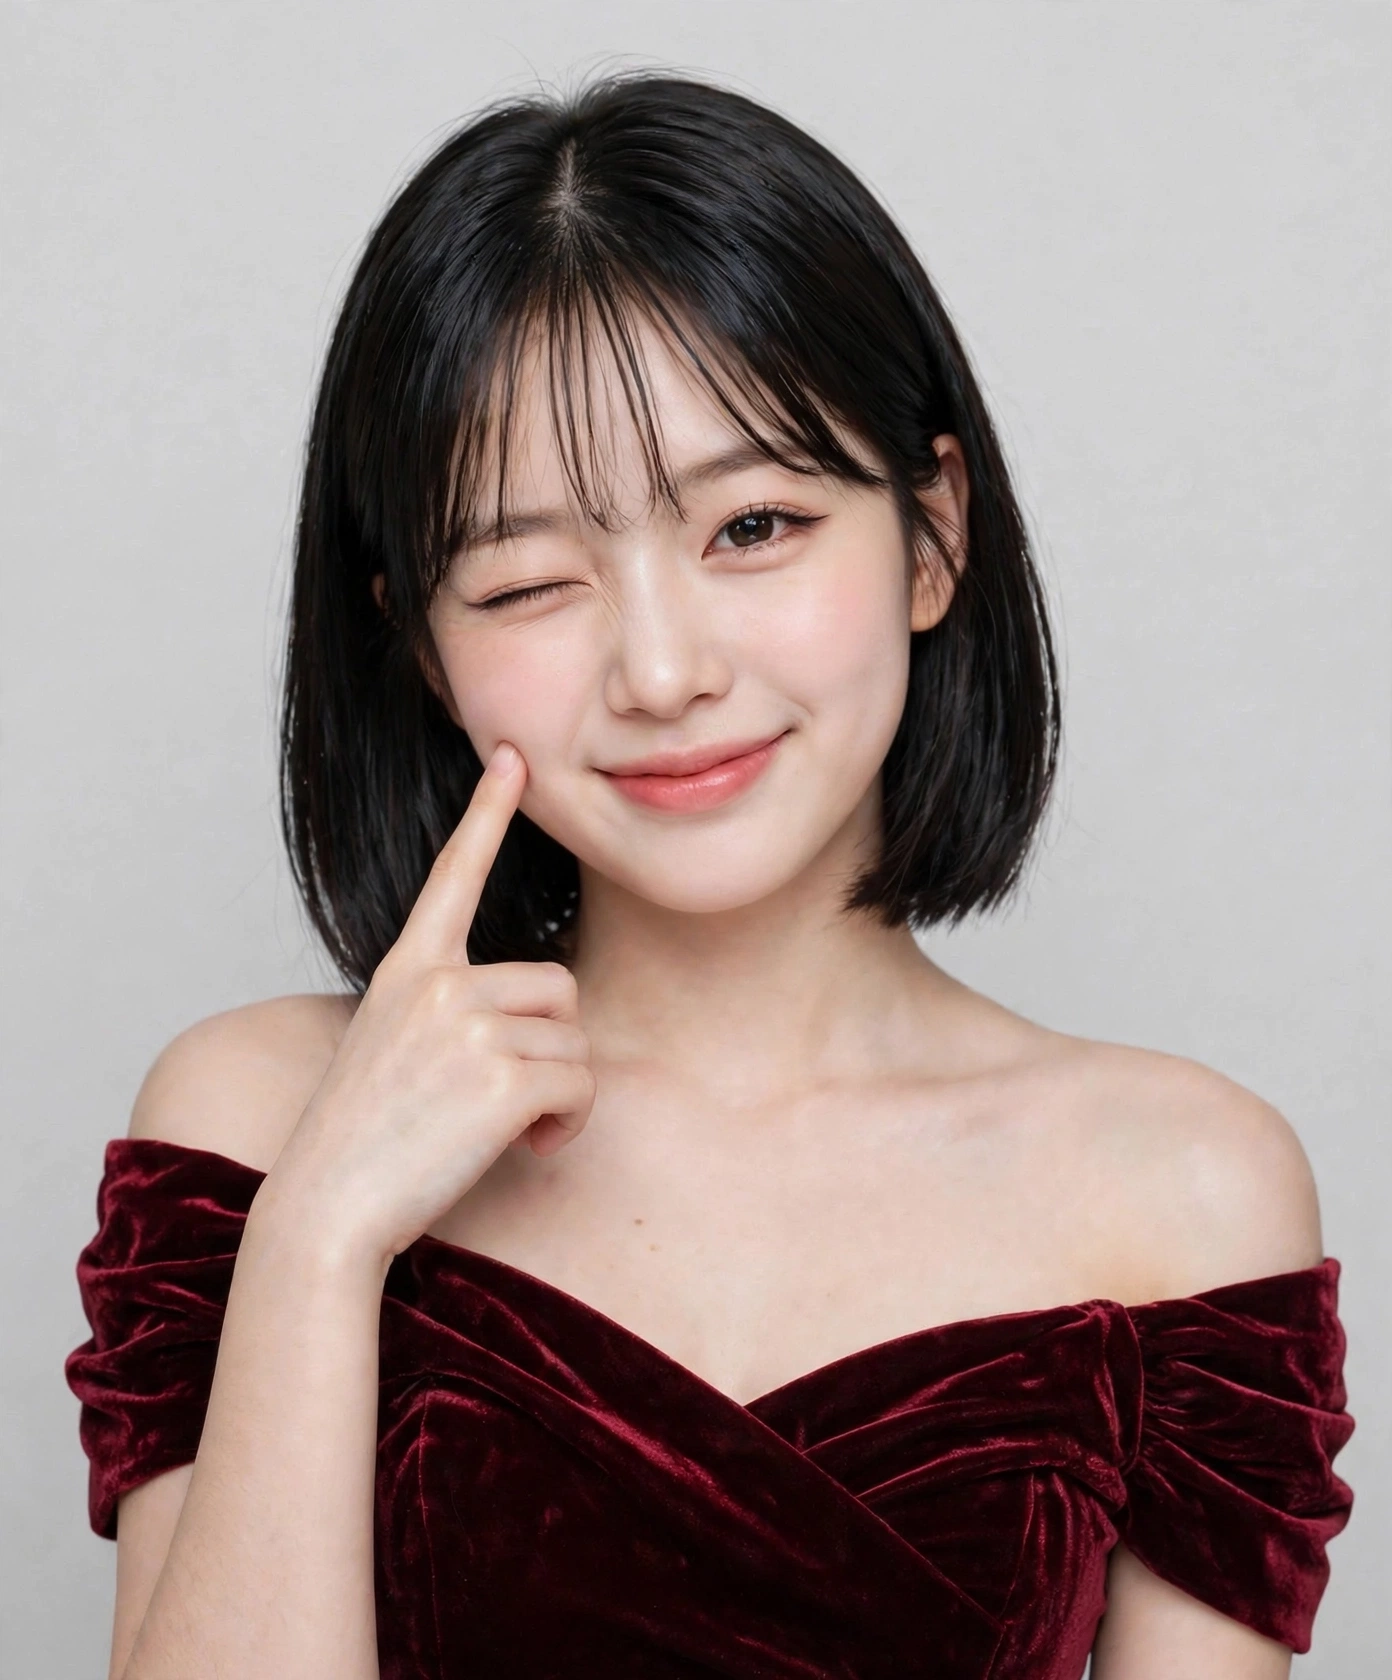
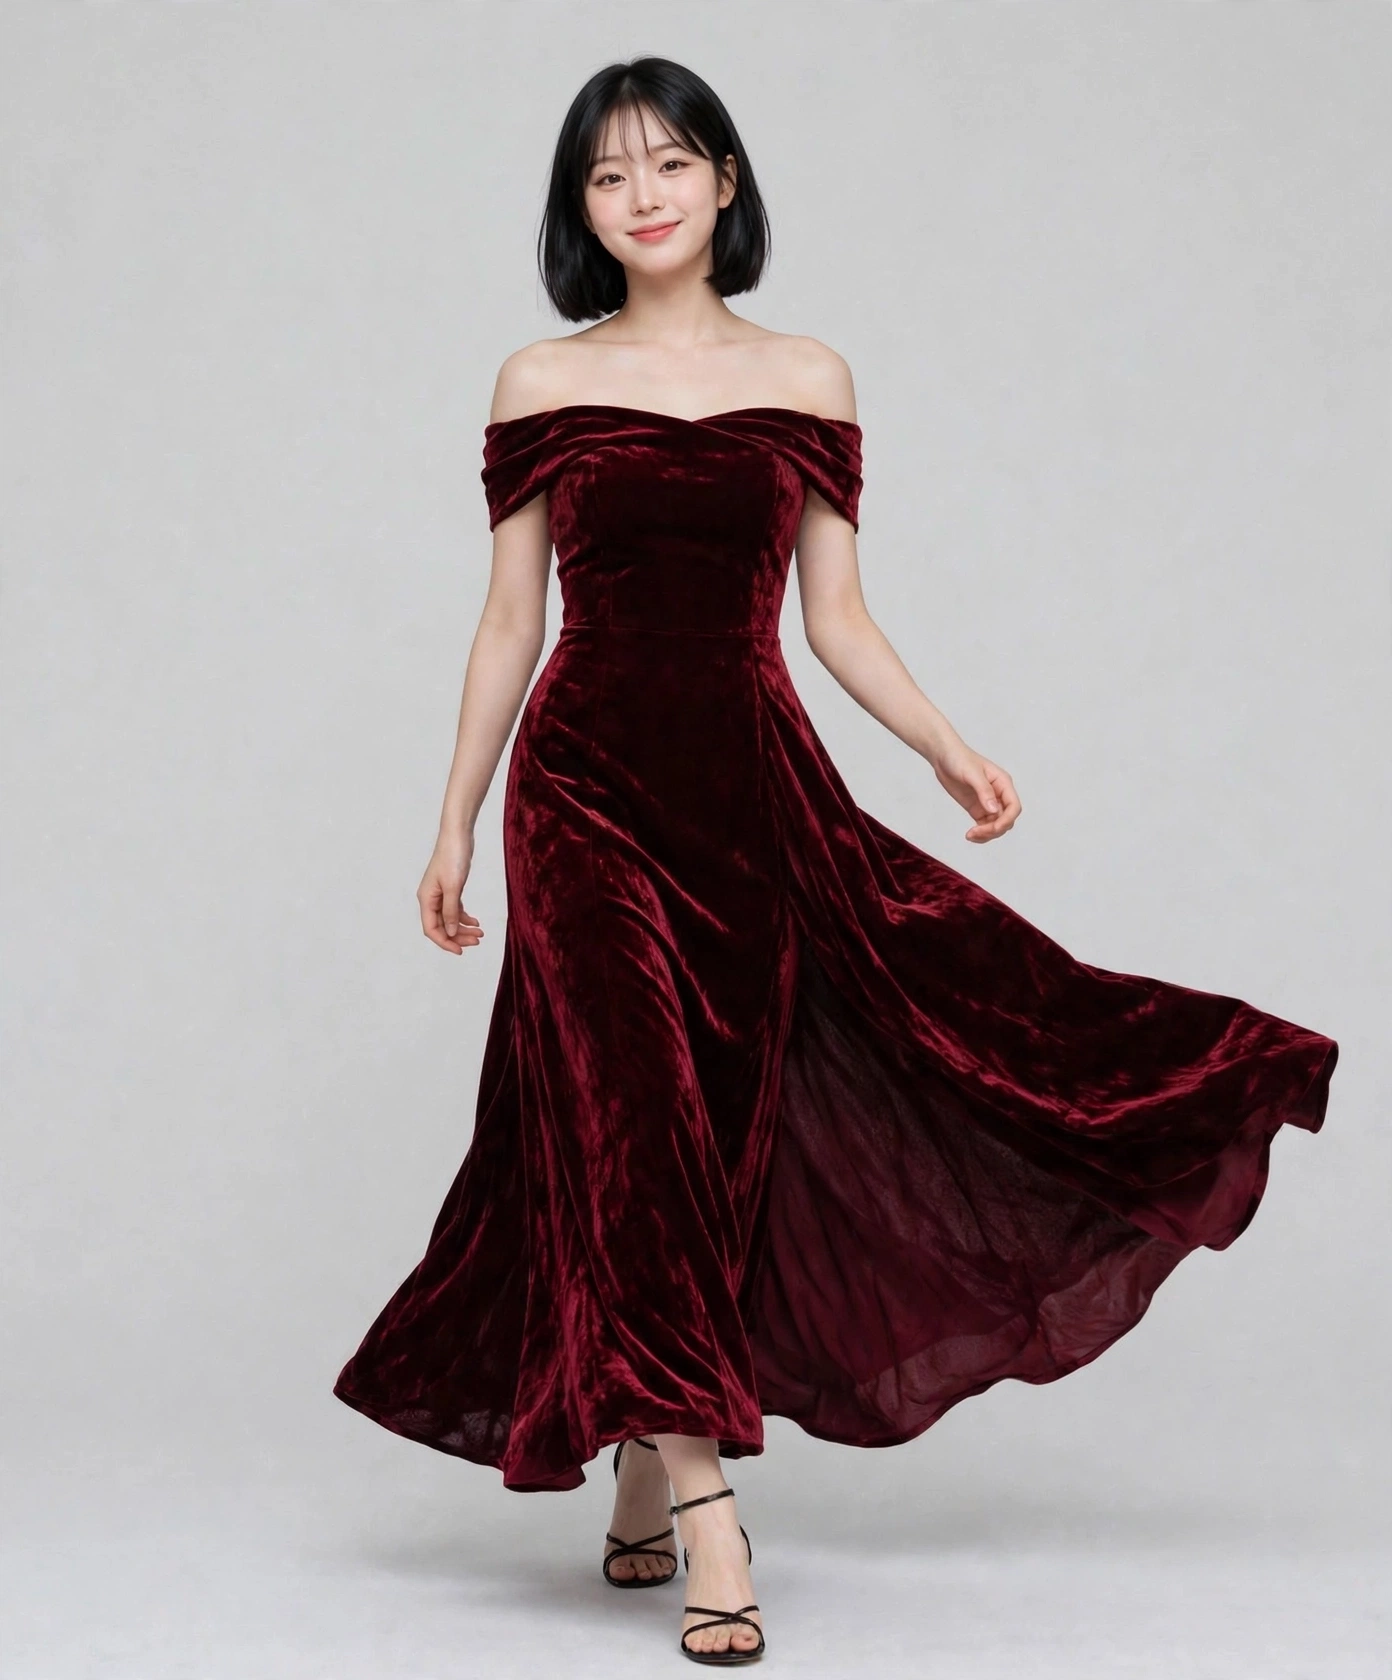
Sena: redo big-laugh cuts, delete cheek-poke cut, renumber studio2 (Sena 32, v74)

diff --git a/index.html b/index.html
@@ -42,7 +42,7 @@
 <body>
 <header>
   <h1 id="album-title">Mia's Album</h1>
-  <p id="album-sub">확정 얼굴 기준의 컷 모음 (총 165컷) · 버전 73</p>
+  <p id="album-sub">확정 얼굴 기준의 컷 모음 (총 165컷) · 버전 74</p>
   <div class="char-switch" role="tablist" aria-label="캐릭터 선택">
     <button type="button" class="char-btn active" id="btn-mia">Mia</button>
     <button type="button" class="char-btn" id="btn-ciel">Ciel</button>
@@ -392,7 +392,7 @@
     <div class="card" data-cap="Sena 스튜디오 1 — 검정 페플럼, 워킹 미소"><img src="img/sena-1.webp" alt="Sena 스튜디오 1"><div class="cap">검정 페플럼 · 워킹</div></div>
     <div class="card" data-cap="Sena 스튜디오 2 — 레드 페플럼, 높은 의자 미소"><img src="img/sena-2.webp" alt="Sena 스튜디오 2"><div class="cap">레드 페플럼 · 미소</div></div>
     <div class="card" data-cap="Sena 스튜디오 3 — 와인 바디콘, 한 손 허리 시크"><img src="img/sena-3.webp" alt="Sena 스튜디오 3"><div class="cap">와인 바디콘 · 시크</div></div>
-    <div class="card" data-cap="Sena 스튜디오 4 — 크림 니트, 크게 웃음"><img src="img/sena-4.webp" alt="Sena 스튜디오 4"><div class="cap">크림 니트 · 웃음</div></div>
+    <div class="card" data-cap="Sena 스튜디오 4 — 크림 니트, 고개 기울여 잔잔한 미소"><img src="img/sena-4.webp" alt="Sena 스튜디오 4"><div class="cap">크림 니트 · 잔잔한 미소</div></div>
   </div>
 </section>
 
@@ -420,7 +420,7 @@
   <h2>스튜디오 2차</h2>
   <div class="grid">
     <div class="card" data-cap="Sena 스튜디오2 1 — 실버 새틴 롱드레스, 앉아 턱 든 도도"><img src="img/sena-studio2-1.webp" alt="Sena 스튜디오2 1"><div class="cap">실버 새틴 · 도도</div></div>
-    <div class="card" data-cap="Sena 스튜디오2 2 — 네이비 페플럼, 워킹 큰 웃음"><img src="img/sena-studio2-2.webp" alt="Sena 스튜디오2 2"><div class="cap">네이비 페플럼 · 큰 웃음</div></div>
+    <div class="card" data-cap="Sena 스튜디오2 2 — 네이비 페플럼, 워킹 잔잔한 미소"><img src="img/sena-studio2-2.webp" alt="Sena 스튜디오2 2"><div class="cap">네이비 페플럼 · 워킹 미소</div></div>
     <div class="card" data-cap="Sena 스튜디오2 3 — 버건디 오프숄더 롱, 돌아봄 미소"><img src="img/sena-studio2-3.webp" alt="Sena 스튜디오2 3"><div class="cap">버건디 오프숄더 · 돌아봄</div></div>
     <div class="card" data-cap="Sena 스튜디오2 4 — 화이트 민소매 여름 원피스, 하이앵글 놀람"><img src="img/sena-studio2-4.webp" alt="Sena 스튜디오2 4"><div class="cap">화이트 · 하이앵글 놀람</div></div>
     <div class="card" data-cap="Sena 스튜디오2 5 — 하늘 랩 원피스, 치마 잡고 윙크"><img src="img/sena-studio2-5.webp" alt="Sena 스튜디오2 5"><div class="cap">하늘 랩 · 윙크</div></div>
@@ -430,8 +430,7 @@
     <div class="card" data-cap="Sena 스튜디오2 9 — 라벤더 새틴 랩, 의자에 앉아 다리 꼬고"><img src="img/sena-studio2-9.webp" alt="Sena 스튜디오2 9"><div class="cap">라벤더 새틴 · 앉은 자세</div></div>
     <div class="card" data-cap="Sena 스튜디오2 10 — 버건디 오프숄더 벨벳 롱, 한 손 허리 정면"><img src="img/sena-studio2-10.webp" alt="Sena 스튜디오2 10"><div class="cap">버건디 벨벳 · 정면</div></div>
     <div class="card" data-cap="Sena 스튜디오2 11 — 버건디 오프숄더 벨벳 롱, 의자에 앉아 턱 손"><img src="img/sena-studio2-11.webp" alt="Sena 스튜디오2 11"><div class="cap">버건디 벨벳 · 턱 손</div></div>
-    <div class="card" data-cap="Sena 스튜디오2 12 — 버건디 오프숄더 벨벳, 볼 콕 윙크 클로즈업"><img src="img/sena-studio2-12.webp" alt="Sena 스튜디오2 12"><div class="cap">버건디 벨벳 · 볼 콕 윙크</div></div>
-    <div class="card" data-cap="Sena 스튜디오2 13 — 버건디 오프숄더 벨벳 롱, 치마 흩날리며 잔잔한 미소"><img src="img/sena-studio2-13.webp" alt="Sena 스튜디오2 13"><div class="cap">버건디 벨벳 · 흩날림 미소</div></div>
+    <div class="card" data-cap="Sena 스튜디오2 12 — 버건디 오프숄더 벨벳 롱, 치마 흩날리며 잔잔한 미소"><img src="img/sena-studio2-12.webp" alt="Sena 스튜디오2 12"><div class="cap">버건디 벨벳 · 흩날림 미소</div></div>
   </div>
 </section>
 
@@ -514,15 +513,15 @@
     btnSena.classList.toggle('active', name === 'sena');
     if (name === 'ciel'){
       albumTitle.textContent = "Ciel's Album";
-      albumSub.textContent = '단발 귀여운상 기준의 컷 모음 (총 4컷) · 버전 73';
+      albumSub.textContent = '단발 귀여운상 기준의 컷 모음 (총 4컷) · 버전 74';
       document.title = "Ciel's Album";
     } else if (name === 'sena'){
       albumTitle.textContent = "Sena's Album";
-      albumSub.textContent = '시크한 단발 귀염상 기준의 컷 모음 (총 33컷) · 버전 73';
+      albumSub.textContent = '시크한 단발 귀염상 기준의 컷 모음 (총 32컷) · 버전 74';
       document.title = "Sena's Album";
     } else {
       albumTitle.textContent = "Mia's Album";
-      albumSub.textContent = '확정 얼굴 기준의 컷 모음 (총 165컷) · 버전 73';
+      albumSub.textContent = '확정 얼굴 기준의 컷 모음 (총 165컷) · 버전 74';
       document.title = "Mia's Album";
     }
     cards = allCards.filter(c => c.offsetParent !== null);

diff --git a/sw.js b/sw.js
@@ -1,4 +1,4 @@
-const CACHE = 'influencer-album-v73';
+const CACHE = 'influencer-album-v74';
 const CORE = ['./', './index.html', './manifest.webmanifest', './icon-192.png', './icon-512.png',
   './img/face-anchor.webp',
   './img/studio-1.webp', './img/studio-2.webp', './img/studio-3.webp', './img/studio-4.webp',
@@ -32,7 +32,7 @@ const CORE = ['./', './index.html', './manifest.webmanifest', './icon-192.png', 
   './img/sena-face-anchor.webp', './img/sena-1.webp', './img/sena-2.webp', './img/sena-3.webp', './img/sena-4.webp',
   './img/sena-zoom-1.webp', './img/sena-zoom-2.webp', './img/sena-zoom-3.webp', './img/sena-zoom-4.webp',
   './img/sena-front-1.webp', './img/sena-front-2.webp', './img/sena-front-3.webp', './img/sena-front-4.webp',
-  './img/sena-life-1.webp', './img/sena-life-2.webp', './img/sena-life-3.webp', './img/sena-life-4.webp', './img/sena-life-5.webp', './img/sena-life-6.webp', './img/sena-life-7.webp', './img/sena-life-8.webp', './img/sena-studio2-1.webp', './img/sena-studio2-2.webp', './img/sena-studio2-3.webp', './img/sena-studio2-4.webp', './img/sena-studio2-5.webp', './img/sena-studio2-6.webp', './img/sena-studio2-7.webp', './img/sena-studio2-8.webp', './img/sena-studio2-9.webp', './img/sena-studio2-10.webp', './img/sena-studio2-11.webp', './img/sena-studio2-12.webp', './img/sena-studio2-13.webp'];
+  './img/sena-life-1.webp', './img/sena-life-2.webp', './img/sena-life-3.webp', './img/sena-life-4.webp', './img/sena-life-5.webp', './img/sena-life-6.webp', './img/sena-life-7.webp', './img/sena-life-8.webp', './img/sena-studio2-1.webp', './img/sena-studio2-2.webp', './img/sena-studio2-3.webp', './img/sena-studio2-4.webp', './img/sena-studio2-5.webp', './img/sena-studio2-6.webp', './img/sena-studio2-7.webp', './img/sena-studio2-8.webp', './img/sena-studio2-9.webp', './img/sena-studio2-10.webp', './img/sena-studio2-11.webp', './img/sena-studio2-12.webp'];
 self.addEventListener('install', (e) => {
   e.waitUntil(caches.open(CACHE).then((c) => c.addAll(CORE)).then(() => self.skipWaiting()));
 });

diff --git a/HANDOFF.md b/HANDOFF.md
@@ -126,10 +126,10 @@ push 후 1~2분 기다리고 라이브에서 직접 확인한다. 확인 전에 
 - **캐릭터**: Sena (2026-11-12 이름 확정). 사용자가 준 ChatGPT 공유 이미지(테니스 코트 컷)에서 출발한 캐릭터. 화면 표기 금지(Mia와 동일 — 나이·키 미정·미표기).
 - **얼굴 원본 참조**: `~/workspace/imagine_media/friend-tennis-ref.webp` (긴 머리·큰 흰 리본 버전의 원본 얼굴).
 - **얼굴 전면 교체 (2026-11-12, v2)**: 기존 세나가 미아만큼 자연스럽지 않다는 사용자 판단으로, 미아와 같은 절차(얼굴 후보 → 확정 → 전신 마스터 → 크롭)로 재구축했다. 아이돌 뷰티샷 결 얼굴 후보 A·B·C·D 중 사용자가 A와 C를 1차 승인, 같은 옷 전신 테스트를 거쳐 **C(삐죽한 입술, 또렷한 눈매)** 로 최종 확정. 마스터 파일: 얼굴 원본 `~/workspace/imagine_media/sena-master-face.webp`, 전신 마스터 `sena-master-full.webp`. **기존 29컷은 전부 v1 얼굴 제작분**이며 새 얼굴 재제작 여부는 사용자 지시 대기.
-- **표정 규칙 (2026-11-12 사용자 지시)**: 세나 컷에서 **손가락 하트와 입 벌린 큰 웃음은 쓰지 않는다** — 표정은 잔잔한 미소·윙크·도도·놀람·삐죽 범위에서 다양하게 간다.
+- **표정 규칙 (2026-11-12 사용자 지시)**: 세나 컷에서 **손가락 하트·입 벌린 큰 웃음·볼 콕 찌르기 포즈는 쓰지 않는다** — 표정은 잔잔한 미소·윙크·도도·놀람·삐죽 범위에서 다양하게 간다.
 - **앵커 구성 (v2, 2026-11-12)**: 앨범 표시용 `img/sena-face-anchor.webp`는 전신 마스터(검정 페플럼 정면 서 있는 컷 = C 얼굴 전신 테스트 1번)로 교체했다. **생성용 타이트 얼굴 크롭은 `~/workspace/imagine_media/sena-face-crop.webp`** — v2 마스터 얼굴에서 새로 딴 크롭이다(구 v1 크롭은 `sena-face-crop-v1-backup.webp`로 보관). 세나를 새로 만들 때는 이 v2 크롭을 identity reference로 걸 것.
 - **얼굴 결**: 카페 친구(이름 미정)보다 눈매가 또렷하고 살짝 시크한 귀염상 — 또렷한 아이라인, 자연스러운 매트 입술, 삐진 표정이 잘 어울림.
 - **머리 정본**: **검은 일자 단발** — 턱선 길이, 가운데 가르마, 시스루뱅. 사용자가 머리스타일 비교(단발·볼륨 단발·어깨 펌·긴 곱슬펌·포니테일) 중 첫 번째 일자 단발을 "잘 나왔다"고 확정. 긴 머리·포니테일·펌은 비교용으로만 뽑혔고 정본이 아니다. **리본 등 머리장식은 쓰지 않는다** (사용자 지시).
 - **체형 기준 (2026-11-12 사용자 교정·조정 중)**: Mia 수준으로 뽑은 첫 세트(v1)는 "너무 크다", 한 단계 낮춘 세트(v2)는 "너무 안 보인다"는 평가 — 기준은 그 사이, **자연스러운 비율이되 몸에 붙거나 가벼운 옷에서 굴곡이 확실히 드러나는 수준**이다. 과장된 볼륨으로 뽑지 않되, 밋밋하게 만들지도 않는다. 일상 8번부터 이 상향 기준으로 생성 중이며 최종 확정은 사용자 판정 대기.
-- **현재 세트 (2026-11-12, 체형 하향 재생성본)**: 스튜디오 전신 4컷 — 검정 페플럼 워킹 미소(sena-1), 레드 페플럼 의자 미소(sena-2), 와인 바디콘 시크(sena-3), 크림 니트 웃음(sena-4). 줌인(무릎까지) 4컷 — 크림 니트 미소(sena-zoom-1), 검정 페플럼 턱 손 시크(sena-zoom-2), 레드 페플럼 윙크 손인사(sena-zoom-3), 와인 바디콘 팔짱 몽환(sena-zoom-4). 정면 4컷 — 크림 니트 미소(sena-front-1), 검정 페플럼 단정(sena-front-2), 레드 페플럼 손하트(sena-front-3), 와인 바디콘 한 손 허리(sena-front-4). 일상은 미아의 12장면 구성을 따라가다가 **중단 (2026-11-12 사용자 지시 "스튜디오로 다시가자")**: 거실 홈·주방·발코니 컷이 두 차례 재생성에도 얼굴-몸 비율이 비정상이라는 평가를 받아 해당 3컷을 앨범에서 제거하고, 합격한 창가 독서(라벤더)를 일상 8번으로 당겼다. 일상 확장은 종료하고 이후 세나는 스튜디오 형식으로 채운다 — 스튜디오 2차 13컷 등록됨: 실버 새틴 롱(1), 네이비 페플럼 워킹(2), 버건디 오프숄더 롱(3), 화이트 민소매 여름(4), 하늘 랩 윙크(5), 노란 선드레스 빙글(6), 아이보리 새틴 슬립(7), 민트 바디콘 돌아봄(8), 라벤더 새틴 랩 앉은 자세(9), 버건디 벨벳 오프숄더 4컷(10~13: 정면 한 손 허리·의자 턱 손·볼 콕 윙크 클로즈업·치마 흩날림 잔잔한 미소). 흰 민소매+데님 숏 컷은 사용자 지시로 제거(너무 캐주얼하고 여성스럽지 않다는 평가). **의상 방향 (2026-11-12 사용자 피드백)**: 펑퍼짐한 실루엣이나 데님 같은 캐주얼은 여성스러움이 떨어진다는 평가 — 허리선이 잡히는 핏·새틴 같은 부드러운 소재·우아한 라인이 기준이다. 남은 일상 미등록 장면: 침실 아침(미생성). 얼굴 앵커는 첫 세트 sena-2의 얼굴 크롭 그대로 유지(얼굴 동일). 긴 머리 시절 컷(테니스·검정 페플럼·레드 볼하트·카페 삐짐)은 `~/workspace/imagine_media/`에만 있고 앨범 미등록.
+- **현재 세트 (2026-11-12, 체형 하향 재생성본)**: 스튜디오 전신 4컷 — 검정 페플럼 워킹 미소(sena-1), 레드 페플럼 의자 미소(sena-2), 와인 바디콘 시크(sena-3), 크림 니트 웃음(sena-4). 줌인(무릎까지) 4컷 — 크림 니트 미소(sena-zoom-1), 검정 페플럼 턱 손 시크(sena-zoom-2), 레드 페플럼 윙크 손인사(sena-zoom-3), 와인 바디콘 팔짱 몽환(sena-zoom-4). 정면 4컷 — 크림 니트 미소(sena-front-1), 검정 페플럼 단정(sena-front-2), 레드 페플럼 손하트(sena-front-3), 와인 바디콘 한 손 허리(sena-front-4). 일상은 미아의 12장면 구성을 따라가다가 **중단 (2026-11-12 사용자 지시 "스튜디오로 다시가자")**: 거실 홈·주방·발코니 컷이 두 차례 재생성에도 얼굴-몸 비율이 비정상이라는 평가를 받아 해당 3컷을 앨범에서 제거하고, 합격한 창가 독서(라벤더)를 일상 8번으로 당겼다. 일상 확장은 종료하고 이후 세나는 스튜디오 형식으로 채운다 — 스튜디오 2차 12컷 등록됨: 실버 새틴 롱(1), 네이비 페플럼 워킹(2), 버건디 오프숄더 롱(3), 화이트 민소매 여름(4), 하늘 랩 윙크(5), 노란 선드레스 빙글(6), 아이보리 새틴 슬립(7), 민트 바디콘 돌아봄(8), 라벤더 새틴 랩 앉은 자세(9), 버건디 벨벳 오프숄더 3컷(10~12: 정면 한 손 허리·의자 턱 손·치마 흩날림 잔잔한 미소 — 볼 콕 윙크 컷은 사용자 지시로 삭제). 흰 민소매+데님 숏 컷은 사용자 지시로 제거(너무 캐주얼하고 여성스럽지 않다는 평가). **의상 방향 (2026-11-12 사용자 피드백)**: 펑퍼짐한 실루엣이나 데님 같은 캐주얼은 여성스러움이 떨어진다는 평가 — 허리선이 잡히는 핏·새틴 같은 부드러운 소재·우아한 라인이 기준이다. 남은 일상 미등록 장면: 침실 아침(미생성). 얼굴 앵커는 첫 세트 sena-2의 얼굴 크롭 그대로 유지(얼굴 동일). 긴 머리 시절 컷(테니스·검정 페플럼·레드 볼하트·카페 삐짐)은 `~/workspace/imagine_media/`에만 있고 앨범 미등록.
 - **생성 불가 확인 (재시도 금지)**: 긴 생머리 비교 컷, 양갈래, 화이트 오프숄더 뒤돌아 윙크 조합은 생성이 안 됐다 — 표현을 바꿔 재시도하지 않는다.
